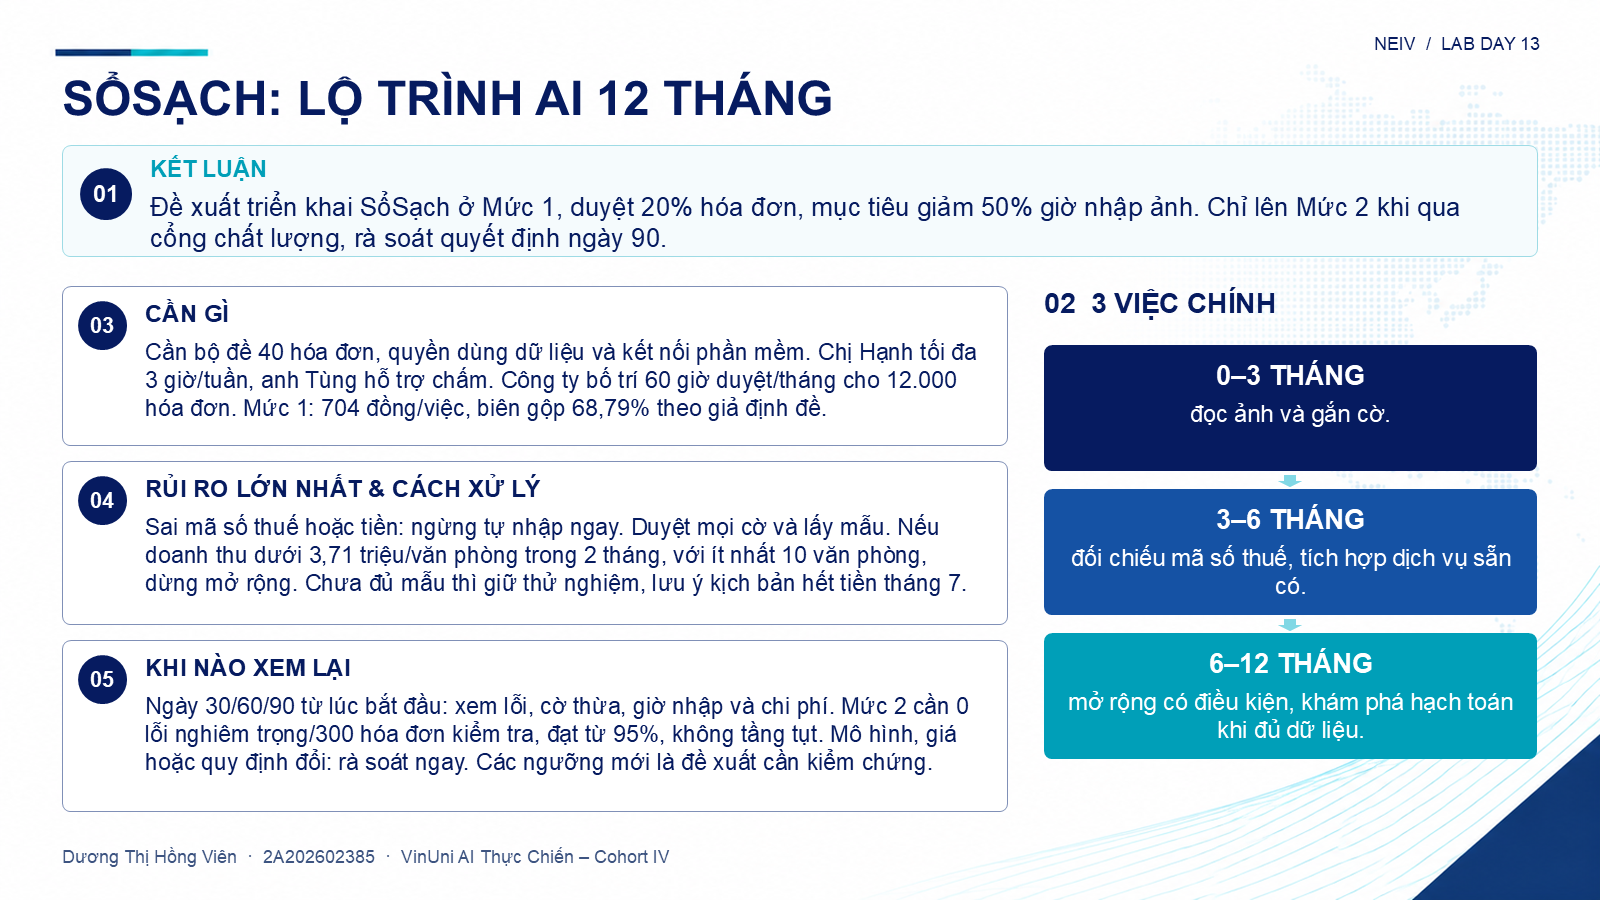
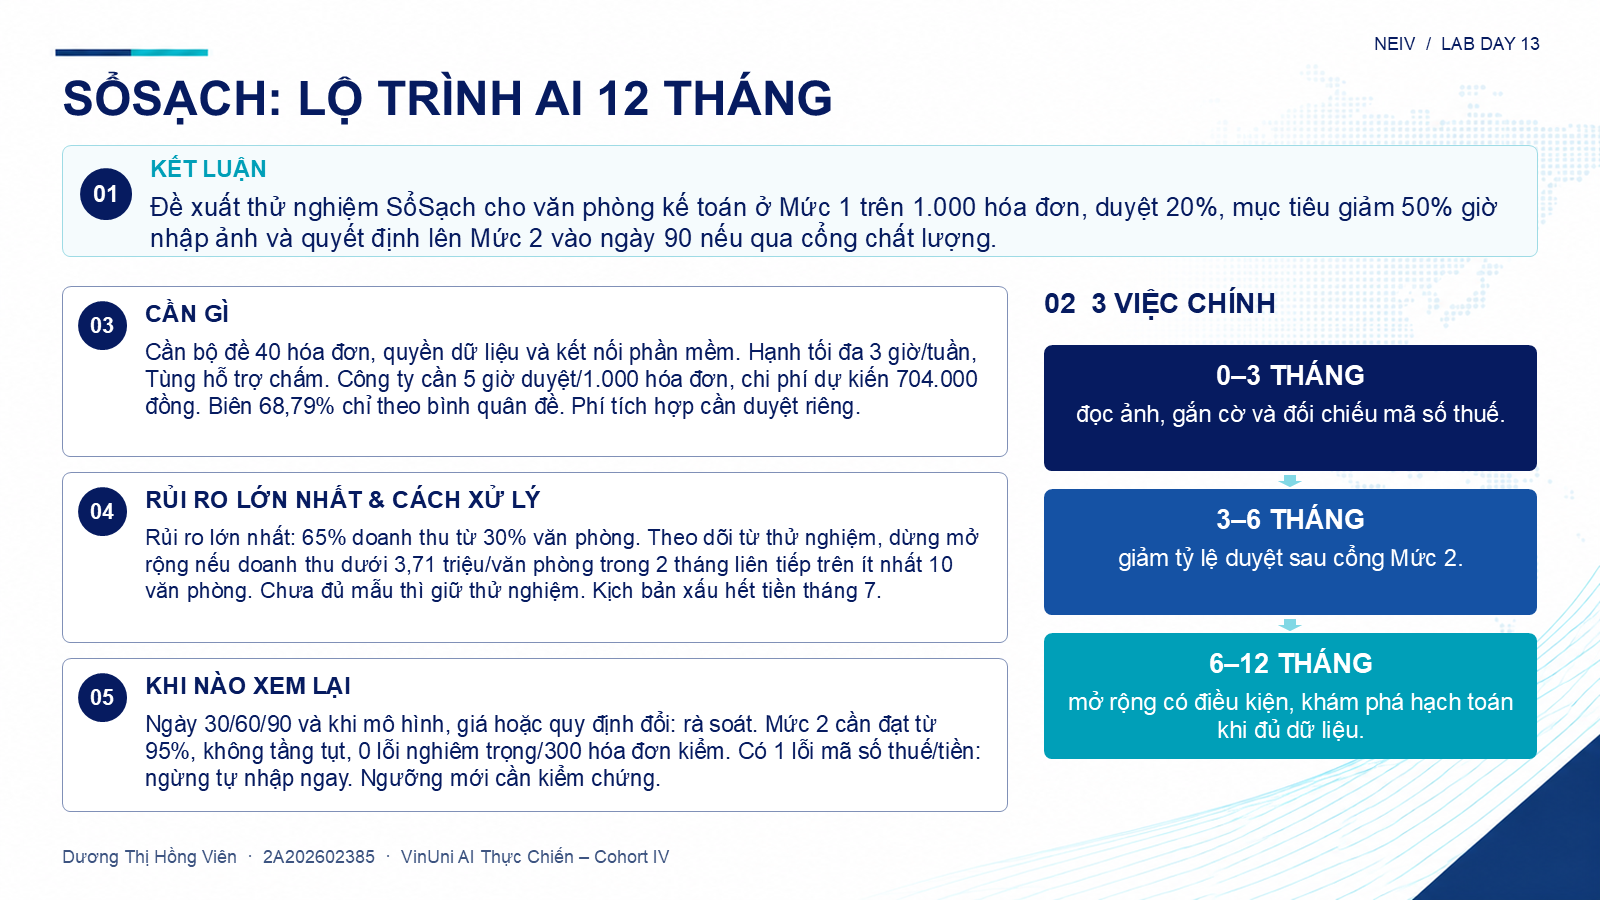
Audit full Day 13 requirements and align pilot economics, roadmap and slide

diff --git a/report/team/FINAL_REVIEW.md b/report/team/FINAL_REVIEW.md
@@ -1,0 +1,64 @@
+# Đối chiếu yêu cầu cuối · Lab Day 13
+
+- Học viên: Dương Thị Hồng Viên
+- Mã sinh viên: 2A202602385
+- Nhóm: Neiv
+- Khóa học: VinUni AI Thực Chiến – Cohort IV
+- Phạm vi: Đề 1 · SổSạch, CP1–CP5, phần cá nhân và phần nhóm.
+- Repository: https://github.com/hviennduongne/K4-L3-CS13-Neiv-AI-Roadmap
+
+## Nguồn yêu cầu đã đối chiếu
+
+1. `README.md` đề gốc, `RULES.md`, `CHECKPOINTS.md`, `SUBMISSION.md`, `RUBRIC.md`.
+2. `src/README.md`, `docs/README.md`, mẫu `team/TEAM.md` và hai mẫu báo cáo.
+3. `docs/CS13_HoSoTinhHuong.pdf`, Đề 1, trang 2–3.
+4. `docs/CS13_SlideLop_AIRoadmap.pdf`: slide 63–74 và 77–87; đặc biệt slide 70 (5 ý), 81–86 (nhiệm vụ).
+5. Chỉ dẫn, công thức, danh sách chọn, tự kiểm tra và rubric trong `src/CS13_Roadmap_De1.xlsx`; xem cấu trúc bản mẫu mà không lấy số của sản phẩm khác.
+6. File PDF và Excel tải rời trong thư mục `day13`: nội dung trùng bản trong `docs/` và `src/`, đã đối chiếu mã băm.
+7. Quy tắc thông tin học viên và yêu cầu đúng 1 slide theo phong cách ảnh tham khảo trong cuộc trao đổi.
+
+Markdown của lớp quy định nộp GitHub và gửi link trên VLearn, thay cho lời nhắc nộp trực tiếp file trong PDF/Excel gốc. Slide 86 gợi ý thêm slide nếu kịp, nhưng yêu cầu hiện tại của học viên là đúng 1 slide nên sản phẩm giữ đúng 1 trang. Đề 1 được chọn theo quyền lựa chọn học viên đã giao; không suy ra số nhóm hoặc ghi nhận đã có xác nhận của coach.
+
+## Bảng đối chiếu
+
+| Yêu cầu | Bằng chứng | Kết quả |
+|---|---|---|
+| Đúng tên, MSSV, nhóm, khóa học; chỉ ghi thành viên được cung cấp | README, `team/TEAM.md`, báo cáo cá nhân/nhóm, chân slide | Đã điền đúng |
+| Dùng một đề và tên `[Nhom]_CS13.xlsx` | `Neiv_CS13.xlsx`, Đề 1 | Đúng |
+| CP1: đọc 6 mục và ≥5 giả thuyết có ngưỡng | `0_Đầu vào!B5:B10`, `1_Danh sách việc!B5:E10` | 6/6 mục, 6 việc |
+| Chép đủ 6 việc gợi ý, không lấy số kinh tế của mẫu | Trang 1 dòng 5–10, trang 2 B12:B20 | Đúng dữ liệu Đề 1 |
+| Hỏi AI về nguy cơ công cụ miễn phí làm thay và đối chiếu | `AI_REVIEW.md`, trang 1 L5:L10 và Q5:Q10 | Có ghi nhận, tách nhận định khỏi bằng chứng |
+| CP2: đúng thang đầu vào và ≥5 điểm/thứ hạng | Trang 1 F5:N10 | 6 việc; điểm độc lập khớp công thức |
+| Quyết định làm/mua/chờ/không làm và lý do ngoại lệ | Trang 1 P5:Q10, trang 3 | Có lý do, mốc xem lại hạch toán tháng 6/9 |
+| CP3: ≥2 mức có chỉ số, ngưỡng, cỡ mẫu, người xác nhận | Trang 2 C5:I8 | 3 cổng Mức 1–3, tách Mức 0 |
+| Dùng kết luận phát hành bản 2, không coi là thử nghiệm mới | Trang 0 E8, trang 2 E6:F6, báo cáo nhóm | 97,3%, 0 lỗi nghiêm trọng, 0 tầng tụt, kappa 0,90 theo hồ sơ |
+| Rõ AI/người và chi phí người công ty | Trang 2 C5:D8, H5:K8 | Kế toán viên công ty, tỷ lệ nhập dạng số phần trăm |
+| Chi phí/biên gộp và ít nhất 1 mức ≥60% | Trang 2 J5:L8 | 1.704/704/579/516,5 đồng; biên 24,46%/68,79%/74,33%/77,10% |
+| CP4: đủ 8 dòng Bây giờ và hoàn thiện 12 tháng | Trang 3 B5:D12 | 24 ô có nội dung, đúng ba tầng |
+| Dữ liệu, hạ tầng, tuân thủ và giờ chuyên gia | Trang 2 F5:F8, trang 3 B10:D10 | Có quyền dữ liệu, nhật ký, hoàn tác; Hạnh ≤3 giờ/tuần, giờ Tùng cần xác nhận |
+| Điều kiện dừng đo được với quy mô thử nghiệm | Trang 3 B12:D12, trang 4 | Có ngưỡng, mẫu, mốc và hành động; thiếu 10 văn phòng không coi là đã đạt cổng doanh thu |
+| Phân biệt 12.000 ca thử nghiệm và 1.760 ca bình quân kinh tế | Trang 3 B10:C11, báo cáo nhóm | Thử ban đầu ≤1.000 ca; tính riêng kinh phí và giá trước mở quy mô |
+| Lịch 30/60/90 và cả 3 sự kiện có sẵn | Trang 4 B5:D10 | Đủ chỉ số, hành động và người quyết |
+| CP5: kết luận một câu, người dùng, mục tiêu số, ngày quyết định | Trang 5 B4, phần đầu slide | Đã đồng bộ |
+| Ba tầng, nguồn lực/ngân sách, rủi ro lớn nhất, lịch xem lại | Trang 5 B5:B8 | Có đủ, không quá 60 chữ/ô |
+| Đúng 1 slide, chữ khớp 5 ô, không cắt nội dung | `Neiv_CS13_Slide.pptx`, ảnh xem trước | Khớp B4:B8; B5 chỉ tách thành 3 giai đoạn; kiểm trong PowerPoint |
+| Tự kiểm tra 8/8, công thức và ô khóa giữ nguyên | Trang 6, đối chiếu bản gốc và mở lại bằng Excel | 8/8; không nhập đè công thức, không tự chấm điểm rubric |
+| Thông tin thành viên, đóng góp, báo cáo cá nhân và nhóm | `team/TEAM.md`, hai báo cáo | Đủ, dẫn đến ô/file bằng chứng |
+| Nguồn, tính giả định và hỗ trợ AI | README, báo cáo nhóm/cá nhân, `AI_REVIEW.md` | Có ghi rõ, không nhận các ngưỡng đề xuất là kết quả thực tế |
+| Repo đọc và tải được, không chứa tệp tạm hoặc bí mật | File cuối trên GitHub, kiểm tải và đối chiếu mã băm | Có kiểm tra; file dựng/kiểm tra giữ ngoài repo |
+| Nộp link trên VLearn bằng tài khoản cá nhân | Chưa có xác nhận nộp từ VLearn | Còn học viên thực hiện/xác nhận |
+
+## Các điểm đã hoàn thiện sau rà soát
+
+- Đưa tích hợp MST về tầng 0–3 tháng trước tự nhập, nhất quán giữa trang 1–5 và slide.
+- Viết kết luận thành một câu có người dùng, mục tiêu và ngày 90 theo slide 70.
+- Bổ sung kinh phí thử 1.000 ca và giờ duyệt tương ứng; tách chi phí ở 12.000 ca khỏi biên tính trên 1.760 ca bình quân.
+- Giữ đúng điều kiện doanh thu “2 tháng liên tiếp” và mẫu ít nhất 10 văn phòng trên mọi nơi diễn đạt điều kiện này.
+- Định nghĩa cờ thừa với mẫu số, nhắc điều kiện lấy mẫu của quy tắc 3/n và bổ sung quy trình rà soát khi đổi mô hình theo slide 68.
+- Giữ thiết kế slide đã được chọn, đồng bộ lại nội dung và ảnh xem trước sau chỉnh Excel.
+
+## Trạng thái nộp bài và giới hạn
+
+Theo lịch lớp, CP1–CP4 có hạn trước 18:00 ngày 16/10/2026, bản cuối có trang 5 và slide trước 23:59 ngày 19/10/2026, giờ Việt Nam. Các cập nhật repo trong phiên làm bài diễn ra sau hạn bản trong lớp; không coi đó là bằng chứng đã nộp đúng hạn. Chưa có bằng chứng VLearn đã nhận link, và việc gửi bài phải thực hiện bằng tài khoản cá nhân. Không tự áp mức phạt hoặc cam kết điểm số.
+
+Các mục tự kiểm tra chỉ xác nhận độ đầy đủ của biểu mẫu. Mẫu 300/1.000 ca, thời gian tiết kiệm, tỷ lệ cờ, giờ chuyên gia bổ sung và phí dịch vụ vẫn cần kiểm chứng khi triển khai. Bảng này không thay thế đánh giá của giảng viên hoặc xác nhận của học viên rằng đã hiểu các giả thuyết và quyết định.

diff --git a/README.md b/README.md
@@ -28,7 +28,7 @@ Slide gồm đúng 1 trang, dùng phong cách trắng–navy–cyan theo ảnh t
 
 ## Quyết định chính
 
-Triển khai SổSạch ở Mức 1, mục tiêu giảm 50% giờ nhập hóa đơn ảnh và duyệt khoảng 20% hóa đơn. Tận dụng chức năng nhập tệp gốc của phần mềm hiện có và dịch vụ tra cứu mã số thuế. Gợi ý hạch toán chờ dữ liệu; không triển khai hỏi đáp thuế chung.
+Thử nghiệm SổSạch tại văn phòng kế toán với tối đa 1.000 hóa đơn, mục tiêu giảm 50% giờ nhập ảnh và duyệt khoảng 20%. Tận dụng bộ nhập tệp gốc và tích hợp đối chiếu mã số thuế trước khi tự nhập. Ngày 30 bàn giao quy trình và kết quả đo, ngày 90 quyết định lên Mức 2 nếu qua cổng. Gợi ý hạch toán chờ dữ liệu; không triển khai hỏi đáp thuế chung.
 
 | Mức | Tỷ lệ duyệt dự kiến | Chi phí/việc | Biên gộp theo đề |
 |---|---:|---:|---:|
@@ -41,9 +41,13 @@ Mức 2 và 3 cần qua cổng trước khi triển khai. Duyệt mọi cờ và
 
 Có ít nhất 1 lỗi mã số thuế hoặc tiền thì dừng tự nhập ngay, lùi mức và điều tra. Nếu doanh thu bình quân dưới 3,71 triệu/văn phòng trong 2 tháng liên tiếp trên ít nhất 10 văn phòng thì dừng mở rộng. Văn phòng thử nghiệm phục vụ 40 doanh nghiệp không tương đương 40 văn phòng khách hàng; khi chưa đủ mẫu, giữ thử nghiệm và chưa kết luận vượt điều kiện kinh doanh.
 
+Thử 1.000 hóa đơn cần khoảng 5 giờ duyệt và 704.000 đồng chi phí biến đổi ở Mức 1. Toàn bộ 12.000 hóa đơn/tháng của văn phòng thử nghiệm sẽ tốn 8,448 triệu đồng, nên không áp biên 68,79% của mức bình quân 1.760 việc cho quy mô này. Cần chốt giá/hạn mức hoặc ngân sách riêng trước khi mở rộng; phí phát sinh phải được duyệt.
+
 ## Kiểm tra và nguồn
 
 Bản Excel được tính lại bằng Microsoft Excel: trang `6_Tự kiểm tra` đạt 8/8 mục, trang 5 có 5 ô dưới 60 chữ. Điều này xác nhận độ đầy đủ của biểu mẫu, không tự quy đổi thành điểm chấm. Giữ công thức, số liệu kinh tế và cấu trúc 9 trang gốc; chỉ điền đầu vào và điều chỉnh kích thước hiển thị cho nội dung.
+
+[Bảng đối chiếu yêu cầu cuối](report/team/FINAL_REVIEW.md) dẫn đến bằng chứng CP1–CP5, rubric, yêu cầu cá nhân/nhóm và trạng thái nộp bài.
 
 Tất cả số liệu là tình huống giả định trong `docs/CS13_HoSoTinhHuong.pdf`, Đề 1, trang 2–3. Ngưỡng bổ sung và điểm ưu tiên là đề xuất của bài lab, chưa phải kết quả chạy thực tế. Tham khảo `docs/CS13_SlideLop_AIRoadmap.pdf`, slide 74 và 81–85, cùng mẫu `src/CS13_Roadmap_De1.xlsx`. Không chép số kinh tế của bản mẫu sản phẩm khác. Nội dung có hỗ trợ AI, xem ghi nhận phân tích ở trên.
 

diff --git a/report/team/2A202602385_DuongThiHongVien.md b/report/team/2A202602385_DuongThiHongVien.md
@@ -22,11 +22,11 @@ Nhập tệp gốc đứng đầu điểm ưu tiên (9,75) nhưng lựa chọn l
 
 Mức 1 có chi phí 704 đồng/việc, biên gộp 68,79% theo dữ liệu đề. Nếu tỷ lệ duyệt tăng từ 20% lên 40%, chi phí thành 954 đồng, biên còn 57,71%. Vì vậy phải đo tỷ lệ cờ thật và chi phí duyệt, không hạ tiêu chuẩn an toàn để giữ biên.
 
-40 doanh nghiệp của văn phòng thử nghiệm không đồng nghĩa 40 văn phòng khách hàng. Điều kiện dừng doanh thu cần ít nhất 10 văn phòng trong 2 tháng, nên chưa đủ mẫu thì giữ thử nghiệm, không tuyên bố đã vượt kiểm tra kinh doanh. 12.000 hóa đơn/tháng mô tả văn phòng thử nghiệm; 1.760 việc/khách/tháng là giả định kinh tế, hai số không được tráo đổi.
+40 doanh nghiệp của văn phòng thử nghiệm không đồng nghĩa 40 văn phòng khách hàng. Điều kiện dừng doanh thu cần ít nhất 10 văn phòng trong 2 tháng liên tiếp, nên chưa đủ mẫu thì giữ thử nghiệm, không tuyên bố đã vượt kiểm tra kinh doanh. 12.000 hóa đơn/tháng mô tả văn phòng thử nghiệm; 1.760 việc/khách/tháng là giả định kinh tế, hai số không được tráo đổi. Bài giới hạn thử 1.000 hóa đơn với 5 giờ duyệt và 704.000 đồng chi phí biến đổi dự kiến; xử lý toàn bộ 12.000 hóa đơn cần gói giá hoặc ngân sách riêng.
 
 ## Tự đánh giá và giới hạn
 
-Nội dung cần hiểu và giải thích được là quan hệ giữa dữ liệu, cổng, quyền tự động và chi phí. Không thấy lỗi trên 40 ca không chứng minh tỷ lệ lỗi thật bằng 0. Cổng bổ sung 300 ca và 1.000 ca là đề xuất, chưa chạy thử. Chưa có báo giá tích hợp, lịch giờ Tùng hoặc dữ liệu hạch toán nên phải xác nhận trước triển khai.
+Nội dung cần hiểu và giải thích được là quan hệ giữa dữ liệu, cổng, quyền tự động và chi phí. Không thấy lỗi trên 40 ca chọn có chủ đích không chứng minh tỷ lệ lỗi thật bằng 0; quy tắc 3/n cần giả định mẫu ngẫu nhiên độc lập. Cổng bổ sung 300 ca và 1.000 ca là đề xuất, chưa chạy thử. Chưa có báo giá tích hợp, lịch giờ Tùng hoặc dữ liệu hạch toán nên phải xác nhận trước triển khai.
 
 Bài được xây dựng với hỗ trợ AI trong phiên làm việc, dựa trên hồ sơ giả định. [Ghi nhận phân tích AI](AI_REVIEW.md) trình bày nhận định về rủi ro bị mô hình miễn phí làm thay. Các điểm số là phán đoán cho bài lab, không phải bằng chứng thị trường đã kiểm chứng.
 
